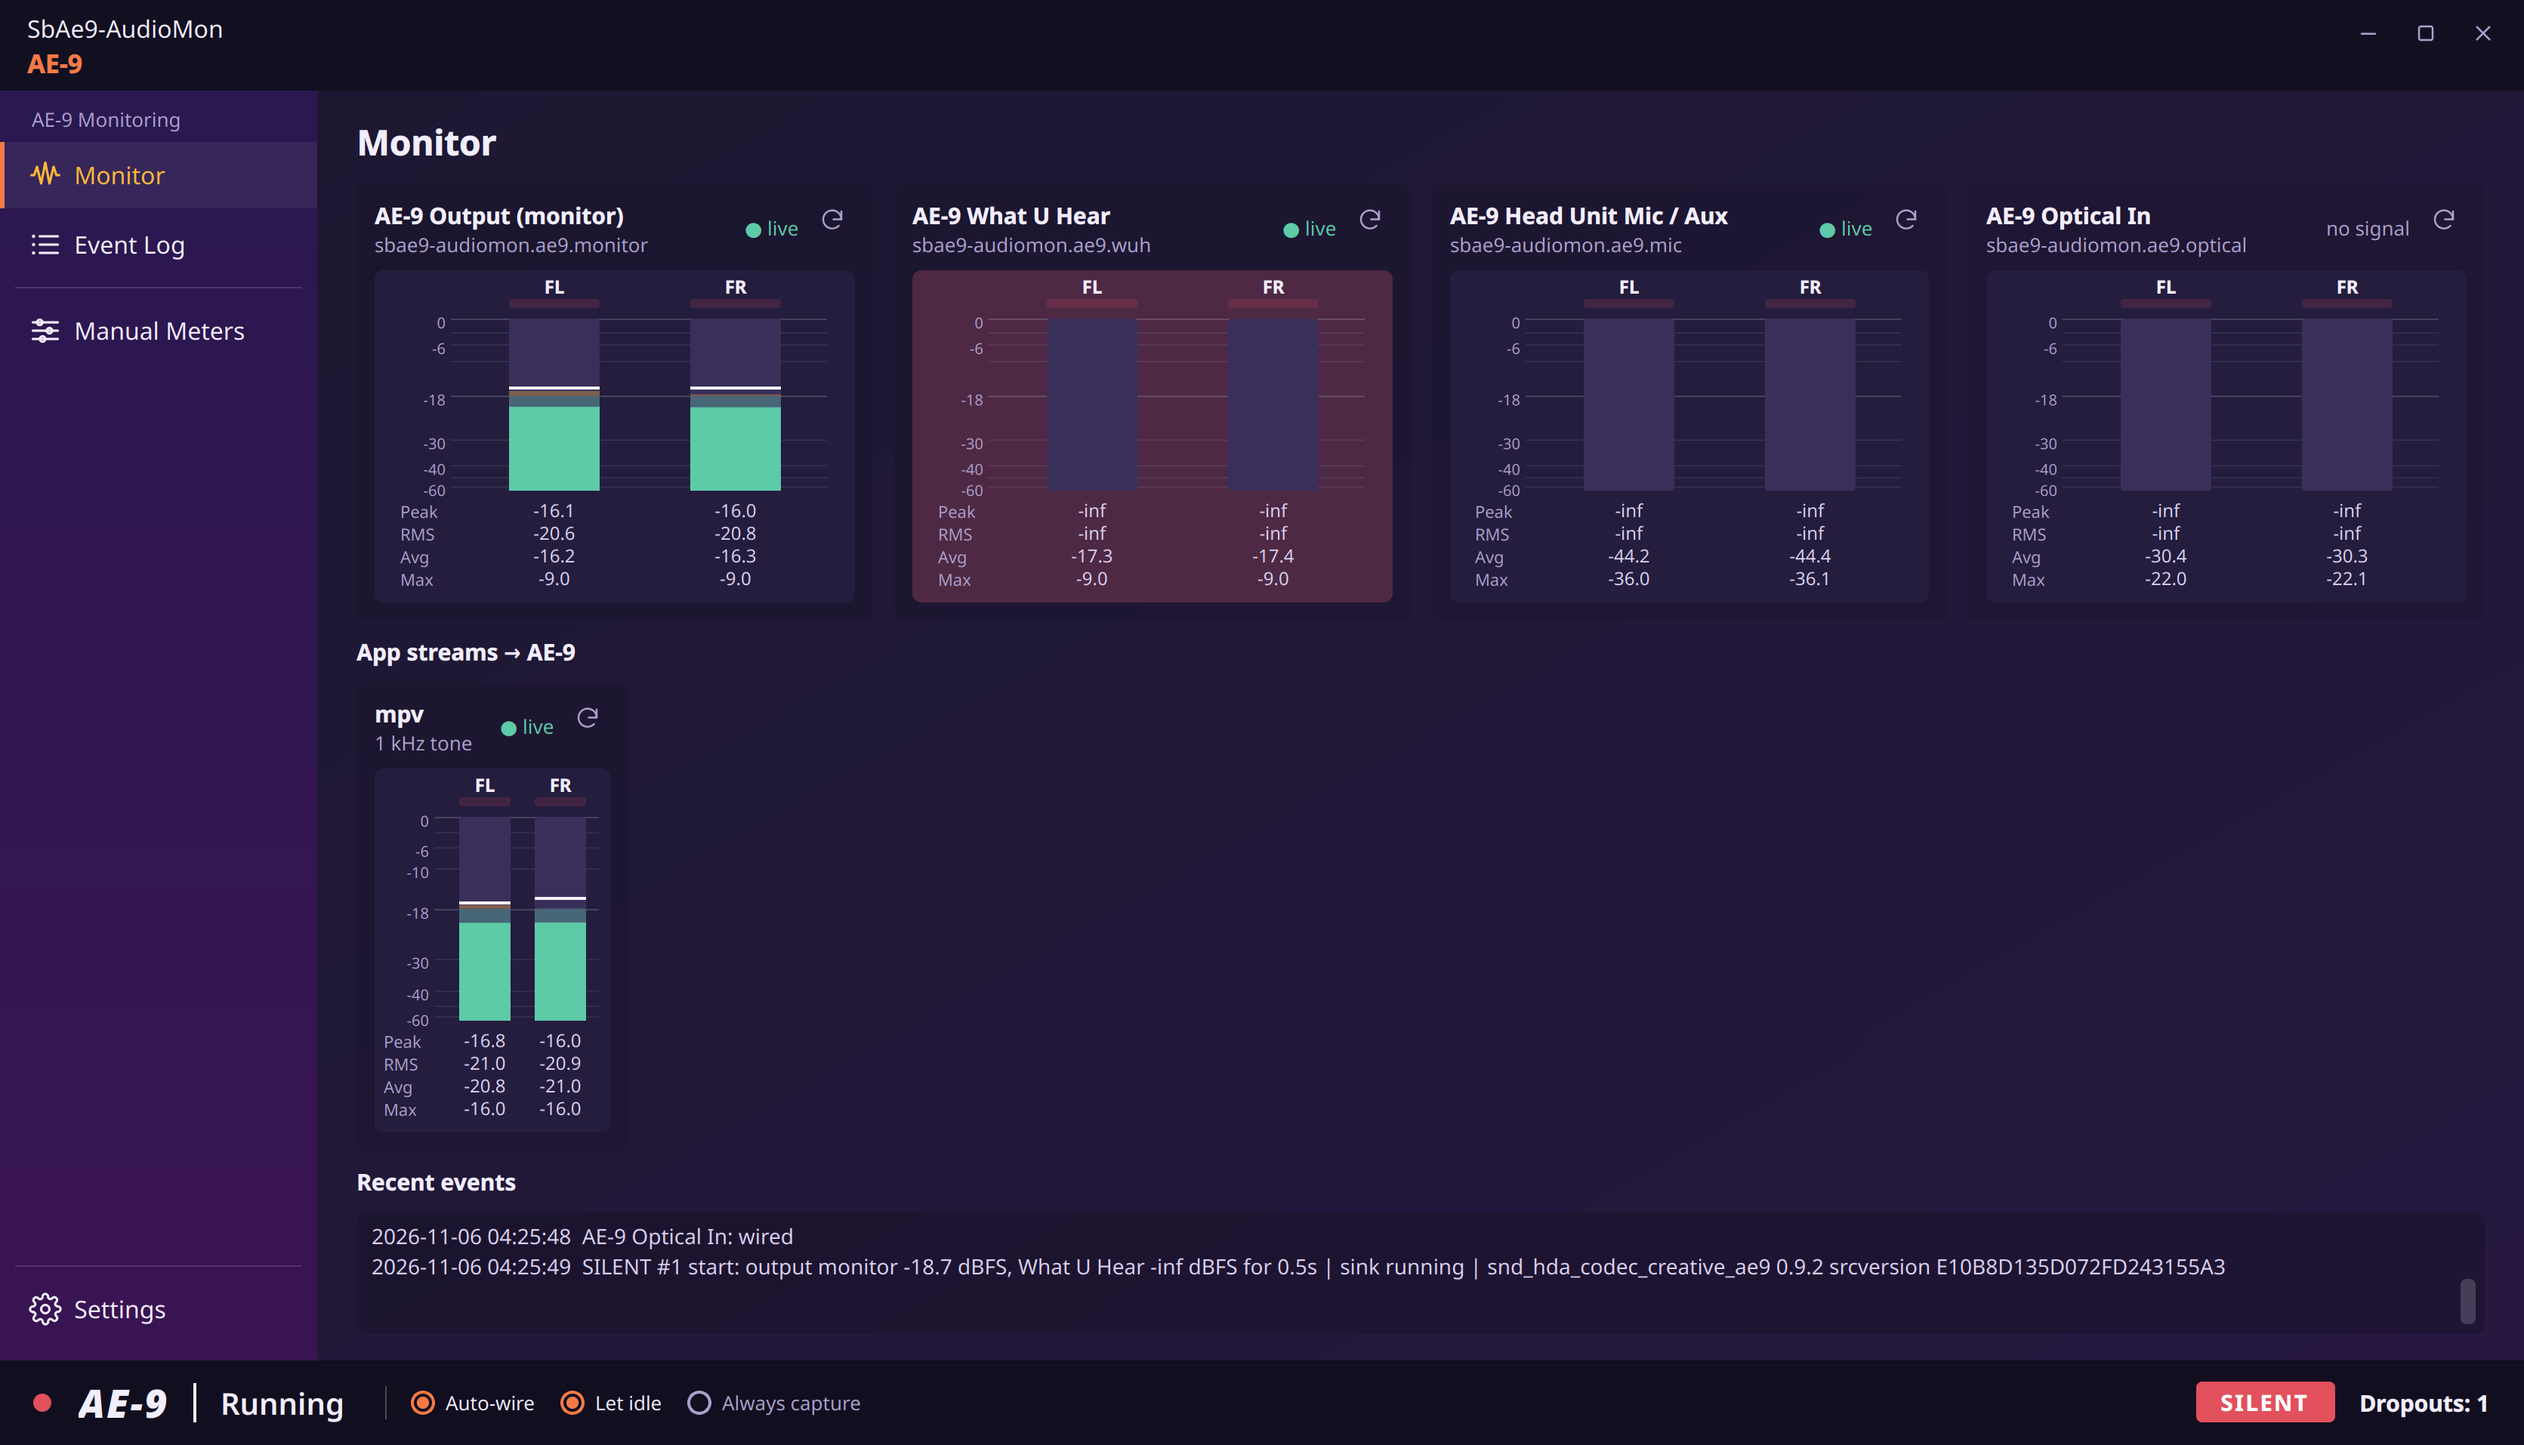
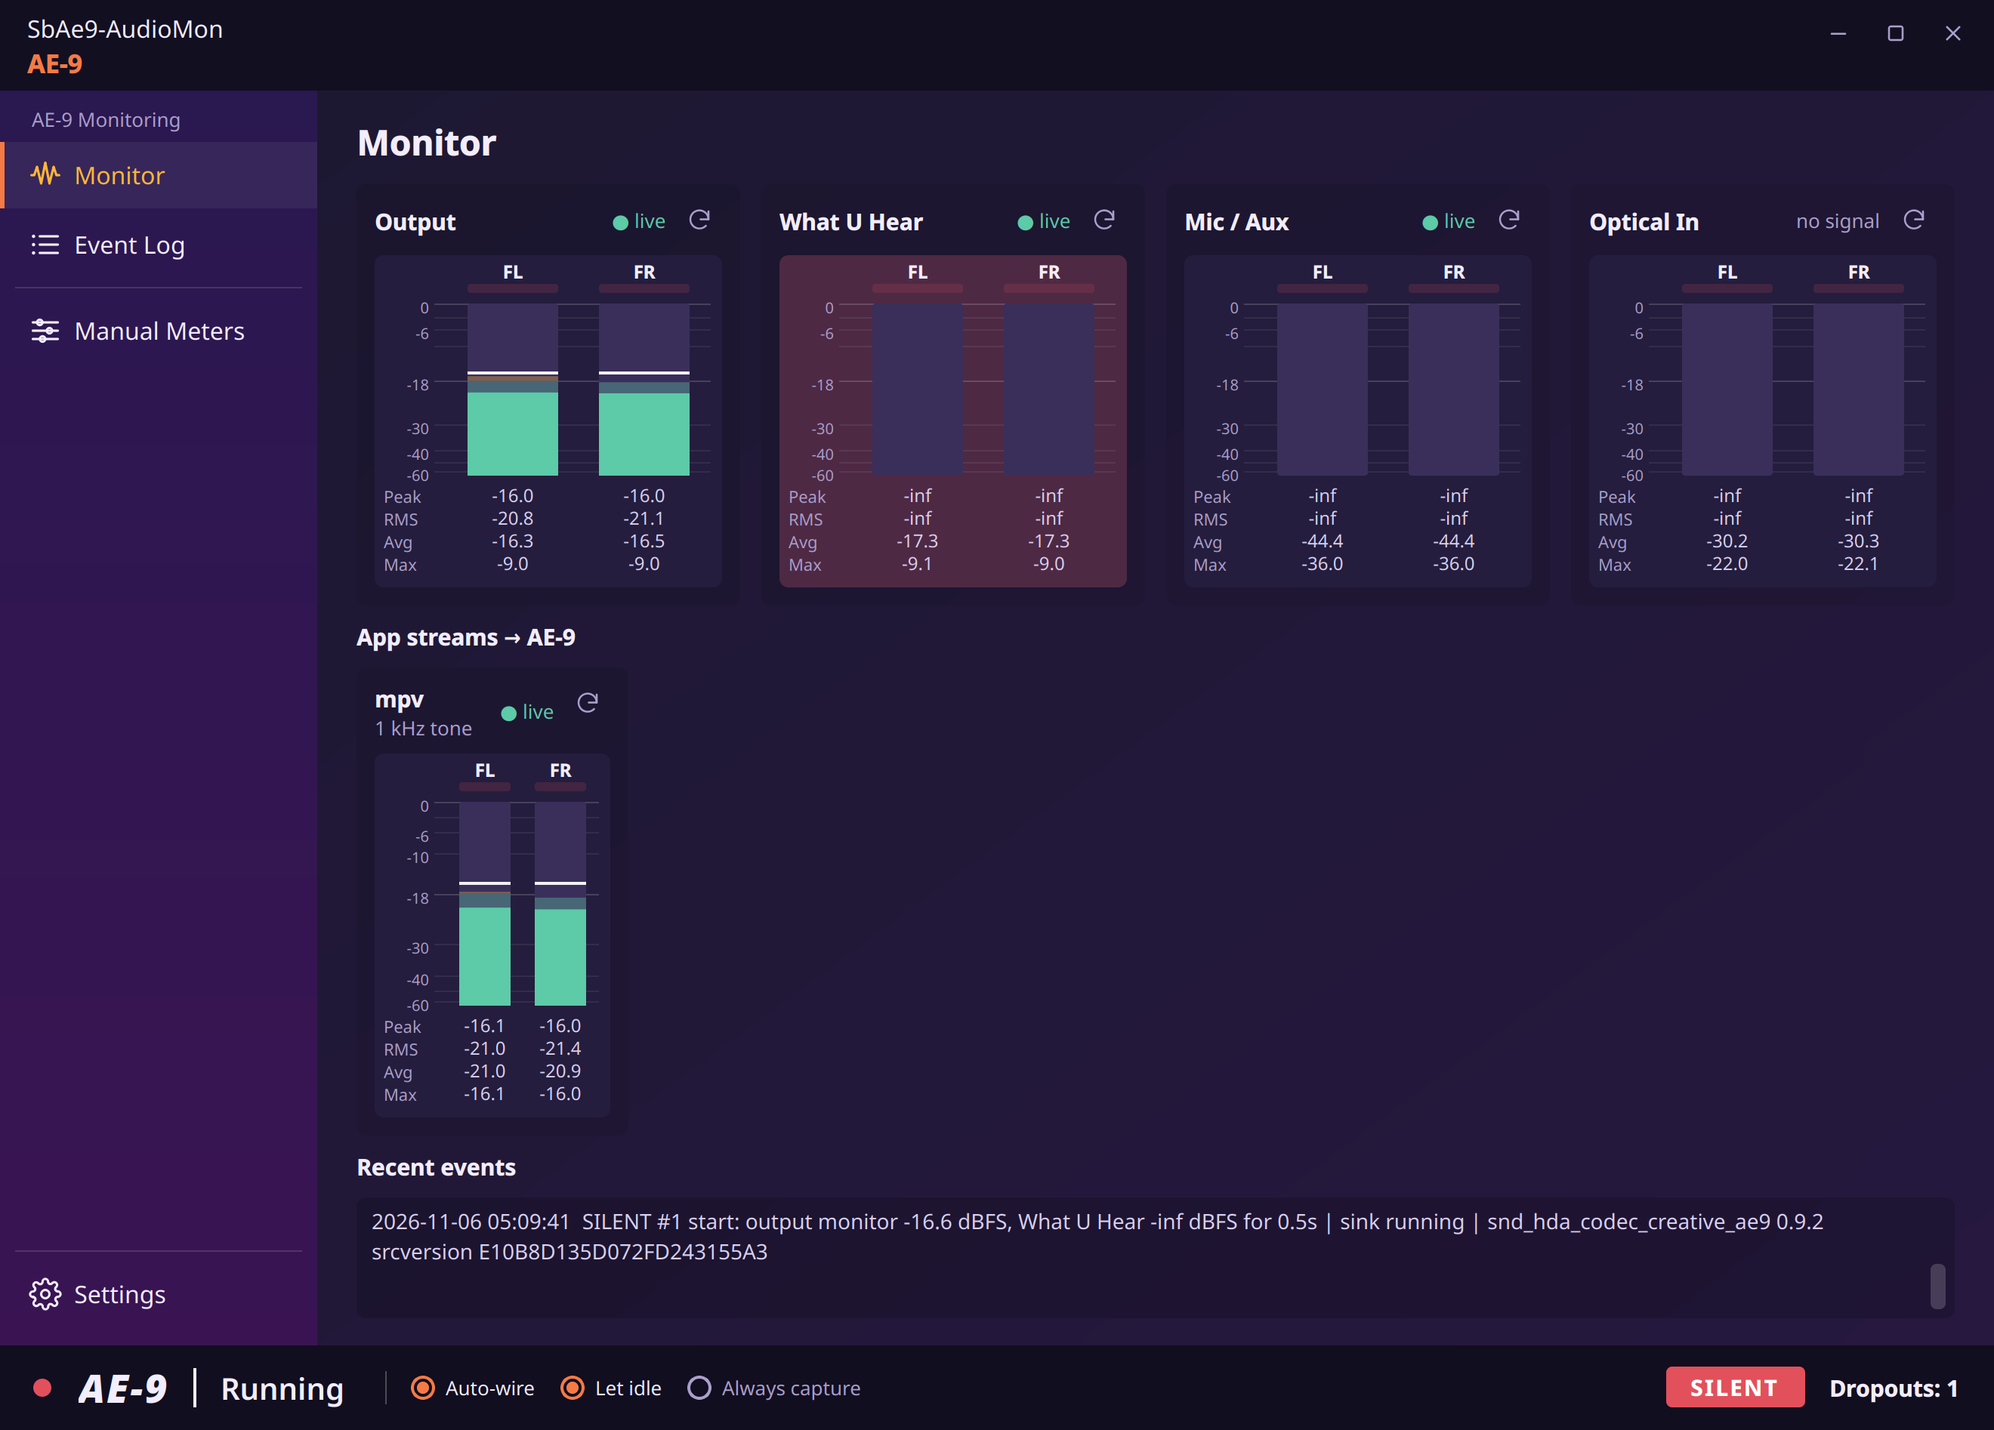
SbAe9-AudioMon 0.3.2: short names on screen, jack detail on hover
Meter cards show Output / What U Hear / Mic / Aux / Optical In and their state; the full name, the jacks (head unit or card) and the PipeWire node are on hover. Nodes and the debug log keep full names. Settings hints use the short names; the screenshot tool has its Glass backdrop built in.

diff --git a/tools/screenshots.py b/tools/screenshots.py
@@ -3,7 +3,7 @@
 """Render the README screenshots into docs/ (2x, HiDPI), like Sound Blaster
 Command's tools/screenshots.py.
 
-    python3 tools/screenshots.py [--palette helix] [--glass BACKDROP.png] [--out docs]
+    python3 tools/screenshots.py [--palette helix] [--glass [BACKDROP.png]] [--out docs]
 
 Runs the real window on the fake AE-9 (sbae9kit.testing via tests/support.py),
 so no real card, PipeWire, settings or debug log are touched:
@@ -14,9 +14,9 @@ so no real card, PipeWire, settings or debug log are touched:
     settings    the Settings page
     manual      Manual Meters with the music wired in by hand
 
---glass BACKDROP also renders docs/glass-monitor.png: Glass at 70% over the
-backdrop, blurred the way KDE frosts it (an offscreen approximation; on the
-desktop KWin does the blur).
+--glass also renders docs/glass-monitor.png: Glass at 70% over a built-in
+neon backdrop (or BACKDROP), blurred the way KDE frosts it (an offscreen
+approximation; on the desktop KWin does the blur).
 """
 
 import argparse
@@ -38,7 +38,8 @@ SHOWN_DRIVER = "snd_hda_codec_creative_ae9 0.9.2 srcversion E10B8D135D072FD24315
 def main():
     ap = argparse.ArgumentParser(description=__doc__.splitlines()[0])
     ap.add_argument("--palette", default="helix")
-    ap.add_argument("--glass", metavar="BACKDROP", help="also render docs/glass-monitor.png over this image")
+    ap.add_argument("--glass", nargs="?", const="", metavar="BACKDROP",
+                    help="also render docs/glass-monitor.png, over BACKDROP or a built-in neon backdrop")
     ap.add_argument("--out", default=os.path.join(ROOT, "docs"))
     args = ap.parse_args()
     os.makedirs(args.out, exist_ok=True)
@@ -138,7 +139,7 @@ def main():
     shot(w, "manual")
     close(w)
 
-    if args.glass:
+    if args.glass is not None:
         glass_shot(args, make_window, run, shot, close)
     print("saved to", args.out)
 
@@ -158,7 +159,7 @@ def glass_shot(args, make_window, run, shot, close):
     win = Image.open(tmp).convert("RGBA")
     pad = 200                                   # 100 px of backdrop all round, at 2x
     size = (win.width + 2 * pad, win.height + 2 * pad)
-    back = Image.open(args.glass).convert("RGBA")
+    back = Image.open(args.glass).convert("RGBA") if args.glass else neon_backdrop()
     scale = max(size[0] / back.width, size[1] / back.height)
     back = back.resize((round(back.width * scale), round(back.height * scale)), Image.LANCZOS)
     left, top = (back.width - size[0]) // 2, (back.height - size[1]) // 2
@@ -168,7 +169,27 @@ def glass_shot(args, make_window, run, shot, close):
     out.paste(frost, (pad, pad))
     out.alpha_composite(win, (pad, pad))
     out.convert("RGB").save(tmp, optimize=True)
-    print(f"{tmp}  {out.width}x{out.height} (over {os.path.basename(args.glass)})")
+    print(f"{tmp}  {out.width}x{out.height} (over {os.path.basename(args.glass) or 'the neon backdrop'})")
+
+
+def neon_backdrop(w=3840, h=2400):
+    """Dark violet with soft coloured light in the Helix colours (the same
+    image every time), for the Glass screenshot."""
+    import random
+    from PIL import Image, ImageDraw, ImageFilter
+    rnd = random.Random(7)
+    im = Image.new("RGB", (w, h), (14, 8, 30))
+    d = ImageDraw.Draw(im)
+    for color, n in (((120, 40, 200), 5), ((245, 122, 69), 4), ((93, 202, 168), 3),
+                     ((255, 182, 58), 2), ((220, 60, 140), 3)):
+        for _ in range(n):
+            x, y, r = rnd.randint(0, w), rnd.randint(0, h), rnd.randint(300, 800)
+            d.ellipse((x - r, y - r, x + r, y + r), fill=color)
+    for _ in range(40):          # sharper streaks, so the frost has something to blur
+        x, y = rnd.randint(0, w), rnd.randint(0, h)
+        d.line((x, y, x + rnd.randint(-900, 900), y + rnd.randint(-300, 300)),
+               fill=rnd.choice([(255, 182, 58), (93, 202, 168), (245, 122, 69)]), width=rnd.randint(6, 18))
+    return im.filter(ImageFilter.GaussianBlur(60)).convert("RGBA")
 
 
 if __name__ == "__main__":

diff --git a/audiomon/monitor.py b/audiomon/monitor.py
@@ -45,13 +45,28 @@ class ManualView(QWidget):
 
 
 FIXED_TAPS = (
-    # key, title, meter node name, gated (only wired while the AE-9 sink runs
-    # when "let the AE-9 idle" is on, so we never hold its capture PCMs open)
+    # key, full title (log lines, the meter node's name), meter node name,
+    # gated (only wired while the AE-9 sink runs when "let the AE-9 idle" is on,
+    # so we never hold its capture PCMs open)
     ("monitor", "AE-9 Output (monitor)", "sbae9-audiomon.ae9.monitor", False),
     ("wuh", "AE-9 What U Hear", "sbae9-audiomon.ae9.wuh", True),
     ("mic", "AE-9 Head Unit Mic / Aux", "sbae9-audiomon.ae9.mic", True),
     ("optical", "AE-9 Optical In", "sbae9-audiomon.ae9.optical", True),
 )
+
+# On screen each meter shows a short name (and its state); where it is, jack by
+# jack, is on hover.
+SHORT_NAMES = {"monitor": "Output", "wuh": "What U Hear", "mic": "Mic / Aux", "optical": "Optical In"}
+DETAILS = {
+    "monitor": "What PipeWire sends to the AE-9: the card's RCA out in speaker mode, or the "
+               "head unit's headphone jacks (3.5 mm and 1/4\") in headphone mode.",
+    "wuh": "What the card actually plays, after its DSP (the card's What U Hear loopback, "
+           "alsa_input.ae9_what_u_hear).",
+    "mic": "The head unit's input: the XLR/TRS jack and the 3.5 mm mic jack, which share it "
+           "(alsa_input.pci-…analog-stereo).",
+    "optical": "The card's optical in jack (alsa_input.ae9_optical). With no light on the jack "
+               "it reads \"no signal\".",
+}
 
 
 class SilenceDetector:
@@ -138,7 +153,9 @@ class AE9View(QWidget):
         self.fixed = {}
         for key, title, node_name, _gated in FIXED_TAPS:
             passive = self.let_idle and key == "monitor"
-            p = MeterPanel(title, node_name, 2, passive=passive, fit=win.fit_window)
+            p = MeterPanel(SHORT_NAMES[key], node_name, 2, passive=passive, fit=win.fit_window,
+                           node_label=title,
+                           tooltip=f"{title}\n{DETAILS[key]}\nmeter node: {node_name}")
             p.note = "searching…"
             self.fixed[key] = p
             row.addWidget(p)

diff --git a/audiomon/window.py b/audiomon/window.py
@@ -97,7 +97,7 @@ class ManualPage(Page):
         self.win = win
         self.view = None
         self.body.addWidget(label(
-            "Two meters with unlinked input ports. Wire anything into them with Helvum, "
+            "Two meters with unlinked input ports (sbae9-audiomon.in and .out). Wire anything into them with Helvum, "
             "qpwgraph or pw-link. They run alongside the AE-9 monitor.", "hint", wrap=True))
         self.holder = QVBoxLayout()
         self.body.addLayout(self.holder, 1)
@@ -136,19 +136,19 @@ class SettingsPage(Page):
         self.body.addWidget(label("Monitoring", "sectionTitle"))
         self.auto_cb = check(
             "Auto-wire AE-9",
-            "Meter the AE-9 output monitor, What U Hear, the head unit's Mic / Aux, the card's Optical In and every "
+            "Meter the AE-9's output, What U Hear, Mic / Aux, Optical In and every "
             "app stream playing to the AE-9. Listen-only: never changes defaults, moves "
             "streams or touches mixer controls.",
             cfg["mode"] == "ae9", win.set_auto)
         self.idle_cb = check(
             "Let the AE-9 idle",
             "Meters never keep the card awake. The output and app meters are passive, and "
-            "What U Hear / Head Unit Mic / Optical In are only wired while the AE-9 sink is running. "
+            "What U Hear / Mic / Aux / Optical In are only wired while the AE-9 sink is running. "
             "Off: everything stays wired and the AE-9 never suspends.",
             cfg["let_idle"], win.set_let_idle)
         self.capture_cb = check(
             "Always capture inputs",
-            "Comparison mode: keep What U Hear / Head Unit Mic / Optical In wired while the card idles "
+            "Comparison mode: keep What U Hear / Mic / Aux / Optical In wired while the card idles "
             "(their capture converters and DMA stay running). The sink can still suspend.",
             cfg["always_capture"], win.set_always_capture)
 

diff --git a/audiomon/widgets.py b/audiomon/widgets.py
@@ -205,10 +205,14 @@ class MeterPanel(QFrame):
     """A card: header (title, status, optional channel picker, reset) + meter."""
 
     def __init__(self, title, node_name, channels, subtitle=None, passive=False,
-                 on_channels=None, fit=None, tooltip=None):
+                 on_channels=None, fit=None, tooltip=None, node_label=None):
+        """title: the short name shown on the card; node_label: the full name
+        the meter's PipeWire node gets (Helvum shows it; defaults to title);
+        subtitle: an optional second line for state, e.g. what a stream plays;
+        tooltip: the detail (jacks, nodes) shown on hover."""
         super().__init__()
         self.setObjectName("card")
-        self.title_text = title
+        self.title_text = node_label or title
         self.node_name = node_name
         self.passive = passive
         self.on_channels = on_channels
@@ -221,12 +225,13 @@ class MeterPanel(QFrame):
         self.last_sound = 0.0       # last time anything above digital silence arrived
         self._status_html = None
 
-        sub = subtitle if subtitle is not None else node_name
         titles = QVBoxLayout()
         titles.setSpacing(0)
-        titles.addWidget(label(elide(title), "cardTitle"))
-        titles.addWidget(label(elide(sub, 34), "muted"))
-        tip = tooltip or f"{title}\n{sub}\nmeter node: {node_name}"
+        self.title_lbl = label(elide(title), "cardTitle")
+        titles.addWidget(self.title_lbl)
+        if subtitle:
+            titles.addWidget(label(elide(subtitle, 34), "muted"))
+        tip = tooltip or "\n".join(filter(None, (node_label or title, subtitle, f"meter node: {node_name}")))
         for i in range(titles.count()):
             titles.itemAt(i).widget().setToolTip(tip)
 

diff --git a/tests/test_ae9_monitor.py b/tests/test_ae9_monitor.py
@@ -115,6 +115,20 @@ class IdleCard(MonitorTest):
             self.assertFalse(self.view.fixed[key].capture.passive, key)
 
 
+class Captions(MonitorTest):
+    def test_short_names_on_screen_jacks_on_hover(self):
+        mic = self.view.fixed["mic"]
+        self.assertEqual(mic.title_lbl.text(), "Mic / Aux")
+        tip = mic.title_lbl.toolTip()
+        for detail in ("AE-9 Head Unit Mic / Aux", "XLR/TRS jack", "3.5 mm mic jack", "sbae9-audiomon.ae9.mic"):
+            self.assertIn(detail, tip)
+        self.assertIn("RCA out", self.view.fixed["monitor"].title_lbl.toolTip())
+        self.assertIn("optical in jack", self.view.fixed["optical"].title_lbl.toolTip())
+        self.assertEqual(mic.capture.label, "AE-9 Head Unit Mic / Aux")   # the node keeps the full name
+        # log lines keep the full names (they're matched against the kernel log)
+        self.assertIn("AE-9 Head Unit Mic / Aux: found", self.log_text())
+
+
 class Playback(MonitorTest):
     def test_stream_gets_a_meter_and_inputs_wire_while_running(self):
         sid = self.pw.add_stream("Firefox", "YouTube", -14)

diff --git a/audiomon/__init__.py b/audiomon/__init__.py
@@ -15,4 +15,4 @@ Two modes:
 Each meter is a PipeWire capture node created via `pw-record`.
 """
 
-__version__ = "0.3.1"
+__version__ = "0.3.2"

diff --git a/README.md b/README.md
@@ -33,7 +33,7 @@ dropout can be shown on demand. Regenerate them with
 palette, here Helix at 70%.
 
 <img src="docs/glass-monitor.png" alt="Monitor page in Glass mode">
-<sub>Rendered offscreen with `python3 tools/screenshots.py --glass BACKDROP.png`,
+<sub>Rendered offscreen with `python3 tools/screenshots.py --glass`,
 over a backdrop blurred the way KDE frosts it. On the desktop, KWin does the
 blur.</sub>
 
@@ -59,6 +59,9 @@ blur.</sub>
   the app runs through XWayland for that, since KDE only blurs X11 windows.
   Switching Glass on or off reopens the window, which restarts monitoring for
   about a second, and the debug log says so.
+- **Meter cards:** each shows a short name (Output, What U Hear, Mic / Aux,
+  Optical In) and its state. Hover the title for the full name, the jacks it
+  covers and its PipeWire node.
 - **Bottom bar:**
   - a status dot: green = running, amber = idle, grey = suspended, red = SILENT or card missing;
   - the AE-9 sink state;

diff --git a/CHANGELOG.md b/CHANGELOG.md
@@ -5,6 +5,18 @@ Blaster AE-9. A debugging companion to
 [SbAe9-Drv](https://github.com/3xHelix/SbAe9-Drv) and
 [SbAe9-SBC](https://github.com/3xHelix/SbAe9-SBC).
 
+## 0.3.2 (2026-11-06)
+
+Short names on screen, the detail on hover, as in Sound Blaster Command 0.9.1.
+
+### Changed
+
+- The meter cards show short names (Output, What U Hear, Mic / Aux, Optical In)
+  and their state. Hover a card's title for the full name, the jacks it covers
+  and its PipeWire node, as Sound Blaster Command does. The second line with the
+  node name is gone. The meters' nodes and the debug log keep their full names.
+- Settings' hints use the short names too.
+
 ## 0.3.1 (2026-11-06)
 
 The head unit's input gets its real name, and the README gets screenshots.
